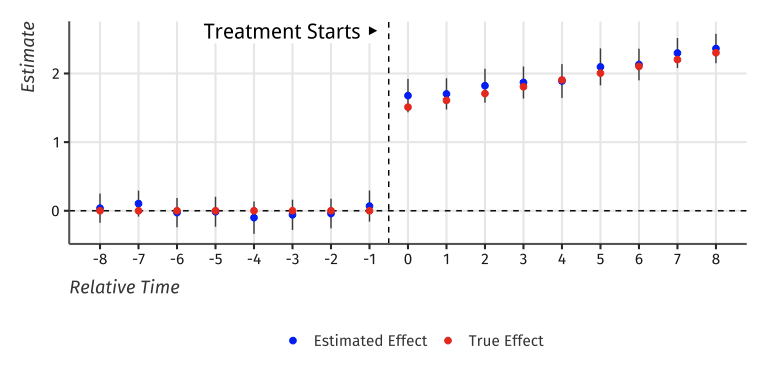
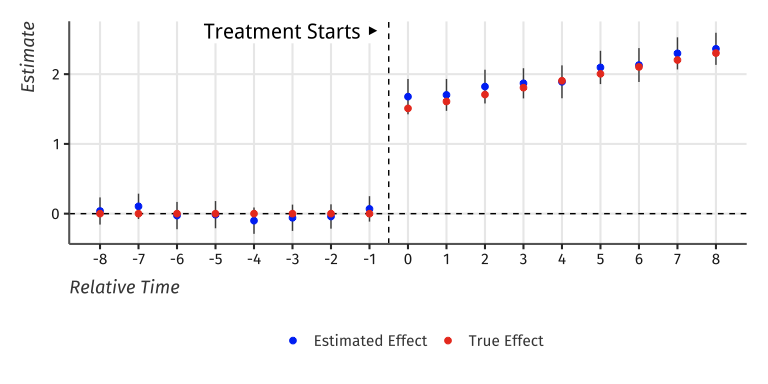
Update README

diff --git a/README.md b/README.md
@@ -7,7 +7,7 @@
 <!-- badges: end -->
 
 The goal of did2s is to estimate TWFE models without running into the
-problem of
+problem of staggered treatment adoption.
 
 ## Installation
 
@@ -19,13 +19,13 @@ You can install did2s from github with:
 
 Researchers often want to estimate either a static TWFE model,
 
-![TWFE Model](man/figures/twfe.png)
+<img src="man/figures/twfe.png" width="400px" height="100%">
 
 where *μ*<sub>*i*</sub> are unit fixed effects, *μ*<sub>*t*</sub> are
 time fixed effects, and *D* <sub>it</sub> is an indicator for receiving
 treatment, or an event-study TWFE model
 
-![ES Model](man/figures/es.png)
+<img src="man/figures/es.png" width="450px" height="100%">
 
 where *D* <sub>it</sub><sup>k</sup> are lag/leads of treatment (k
 periods from initial treatment date). Sometimes researches use variants
@@ -52,7 +52,7 @@ problem is quite simple: estimate *μ*<sub>*i*</sub> and
 indicators. In the absence of treatment, the TWFE model gives you a
 model for (potentially unobserved) untreated outcomes
 
-![TWFE Counterfactual](man/figures/twfe_count.png)
+<img src="man/figures/twfe_count.png" width="350px" height="100%">
 
 Therefore, if you can ***consistently*** estimate *y* <sub>it</sub> (0),
 you can impute the untreated outcome and remove that from the observed
@@ -70,7 +70,7 @@ The steps of the two-step estimator are:
     untreated/not-yet-treated observations, i.e. the subsample with *D*
     <sub>it</sub>  = 0. Residualize outcomes:
 
-![Y residualized](man/figures/resid.png)
+<img src="man/figures/resid.png" width="350px" height="100%">
 
 1.  Regress *ỹ* <sub>it</sub> on *D* <sub>it</sub> or *D*
     <sub>it</sub><sup>k</sup>’s to estimate the treatment effect *τ* or
@@ -131,7 +131,9 @@ procedure. This function requires the following options:
 -   `treat_var`: This has to be the 0/1 treatment variable that marks
     when treatment turns on for a unit. If you suspect anticipation, see
     note above for accounting for this.
--   `cluster_vars`: Optional, this tells which variables to cluster on
+-   `cluster_var`: Which variables to cluster on
+-   `n_bootstraps`: How many clustered bootstraps to perform for
+    standard errors
 
 did2s returns a list with two objects:
 
@@ -242,15 +244,15 @@ First, lets estimate a static did:
     static <- did2s(df_het, 
                     yname = "dep_var", first_stage_formula = ~i(state) + i(year), 
                     treat_formula = ~i(treat), treat_var = "treat", 
-                    cluster_vars = "state")
-    #> The variable 'state::40' has been removed because of collinearity (see $collin.var).
+                    cluster_var = "state")
+    #> → Starting 250 bootstraps at cluster level: state
 
     fixest::esttable(static)
     #>                              static
     #> Dependent Var.:                 adj
     #>                                    
-    #> (Intercept)     1.78e-15 (4.59e-10)
-    #> treat = TRUE      2.380*** (0.0504)
+    #> (Intercept)     1.78e-15 (6.01e-14)
+    #> treat = TRUE      2.380*** (0.0278)
     #> _______________ ___________________
     #> S.E. type                    Custom
     #> Observations                 31,000
@@ -264,58 +266,55 @@ Then, let’s estimate an event study did:
     es <- did2s(df_het,
                 yname = "dep_var", first_stage_formula = ~i(state) + i(year), 
                 treat_formula = ~i(rel_year), treat_var = "treat", 
-                cluster_vars = "state")
-    #> The variable 'state::40' has been removed because of collinearity (see $collin.var).
-    #> Warning in matrix(unlist(c), ncol = length(names(coef(second_stage))), byrow =
-    #> T): data length [2900] is not a sub-multiple or multiple of the number of rows
-    #> [70]
+                cluster_var = "state")
+    #> → Starting 250 bootstraps at cluster level: state
 
     fixest::esttable(es)
     #>                                es
     #> Dependent Var.:               adj
     #>                                  
-    #> (Intercept)       0.0495 (0.1094)
-    #> rel_year = -19    0.1055 (0.1079)
-    #> rel_year = -18   -0.0065 (0.1351)
-    #> rel_year = -17    0.0303 (0.1089)
-    #> rel_year = -16    0.0529 (0.1247)
-    #> rel_year = -15    0.1670 (0.1354)
-    #> rel_year = -14    0.1213 (0.1179)
-    #> rel_year = -13    0.0445 (0.1042)
-    #> rel_year = -12    0.0404 (0.1267)
-    #> rel_year = -11    0.1482 (0.1230)
-    #> rel_year = -10    0.0458 (0.1299)
-    #> rel_year = -9     0.0018 (0.1227)
-    #> rel_year = -8     0.0383 (0.1083)
-    #> rel_year = -7     0.1048 (0.0966)
-    #> rel_year = -6    -0.0274 (0.1088)
-    #> rel_year = -5    -0.0143 (0.1115)
-    #> rel_year = -4    -0.1003 (0.1202)
-    #> rel_year = -3    -0.0589 (0.1126)
-    #> rel_year = -2    -0.0406 (0.1101)
-    #> rel_year = -1     0.0684 (0.1158)
-    #> rel_year = 0    1.678*** (0.1240)
-    #> rel_year = 1    1.703*** (0.1161)
-    #> rel_year = 2    1.822*** (0.1262)
-    #> rel_year = 3    1.869*** (0.1191)
-    #> rel_year = 4    1.890*** (0.1257)
-    #> rel_year = 5    2.096*** (0.1374)
-    #> rel_year = 6    2.131*** (0.1173)
-    #> rel_year = 7    2.298*** (0.1117)
-    #> rel_year = 8    2.363*** (0.1091)
-    #> rel_year = 9    2.570*** (0.1141)
-    #> rel_year = 10   2.631*** (0.1219)
-    #> rel_year = 11   2.663*** (0.1549)
-    #> rel_year = 12   2.622*** (0.1551)
-    #> rel_year = 13   2.606*** (0.1647)
-    #> rel_year = 14   2.705*** (0.1746)
-    #> rel_year = 15   2.774*** (0.1704)
-    #> rel_year = 16   2.645*** (0.1608)
-    #> rel_year = 17   2.847*** (0.1490)
-    #> rel_year = 18   3.081*** (0.1669)
-    #> rel_year = 19   3.181*** (0.1601)
-    #> rel_year = 20   3.259*** (0.1509)
-    #> rel_year = Inf   -0.1104 (0.1334)
+    #> (Intercept)       0.0495 (0.0797)
+    #> rel_year = -19    0.1055 (0.1180)
+    #> rel_year = -18   -0.0065 (0.1214)
+    #> rel_year = -17    0.0303 (0.1142)
+    #> rel_year = -16    0.0529 (0.1126)
+    #> rel_year = -15    0.1670 (0.1160)
+    #> rel_year = -14    0.1213 (0.1096)
+    #> rel_year = -13    0.0445 (0.1162)
+    #> rel_year = -12    0.0404 (0.1166)
+    #> rel_year = -11    0.1482 (0.1130)
+    #> rel_year = -10    0.0458 (0.1105)
+    #> rel_year = -9     0.0018 (0.0993)
+    #> rel_year = -8     0.0383 (0.0994)
+    #> rel_year = -7     0.1048 (0.0928)
+    #> rel_year = -6    -0.0274 (0.0999)
+    #> rel_year = -5    -0.0143 (0.0994)
+    #> rel_year = -4    -0.1003 (0.0963)
+    #> rel_year = -3    -0.0589 (0.0963)
+    #> rel_year = -2    -0.0406 (0.0890)
+    #> rel_year = -1     0.0684 (0.0930)
+    #> rel_year = 0    1.678*** (0.1290)
+    #> rel_year = 1    1.703*** (0.1167)
+    #> rel_year = 2    1.822*** (0.1234)
+    #> rel_year = 3    1.869*** (0.1103)
+    #> rel_year = 4    1.890*** (0.1204)
+    #> rel_year = 5    2.096*** (0.1217)
+    #> rel_year = 6    2.131*** (0.1239)
+    #> rel_year = 7    2.298*** (0.1174)
+    #> rel_year = 8    2.363*** (0.1175)
+    #> rel_year = 9    2.570*** (0.1156)
+    #> rel_year = 10   2.631*** (0.1281)
+    #> rel_year = 11   2.663*** (0.1524)
+    #> rel_year = 12   2.622*** (0.1454)
+    #> rel_year = 13   2.606*** (0.1515)
+    #> rel_year = 14   2.705*** (0.1594)
+    #> rel_year = 15   2.774*** (0.1582)
+    #> rel_year = 16   2.645*** (0.1409)
+    #> rel_year = 17   2.847*** (0.1668)
+    #> rel_year = 18   3.081*** (0.1557)
+    #> rel_year = 19   3.181*** (0.1472)
+    #> rel_year = 20   3.259*** (0.1510)
+    #> rel_year = Inf   -0.1104 (0.0812)
     #> _______________ _________________
     #> S.E. type                  Custom
     #> Observations               31,000
